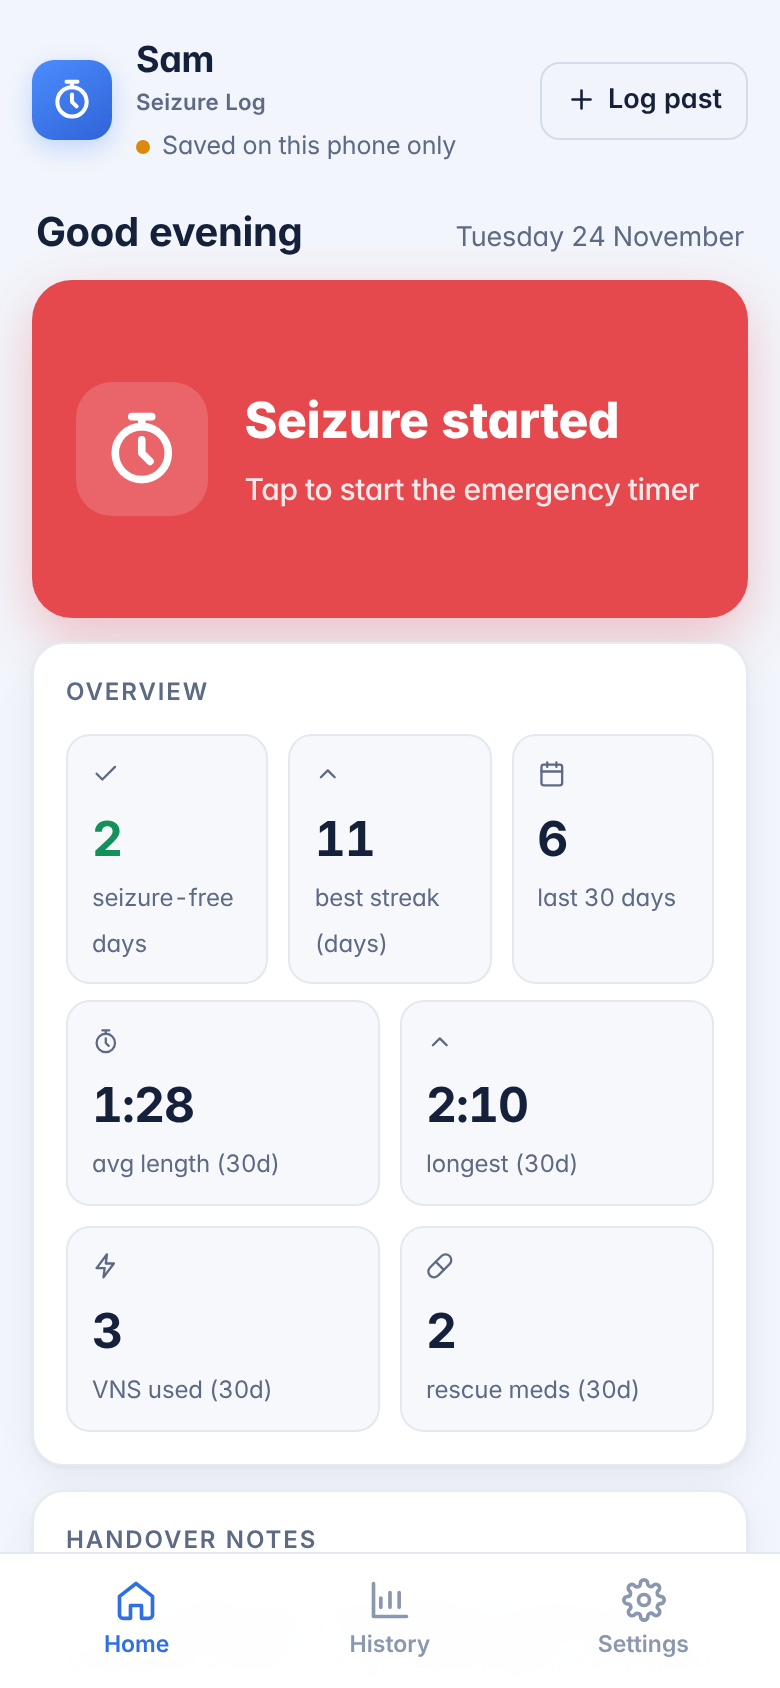
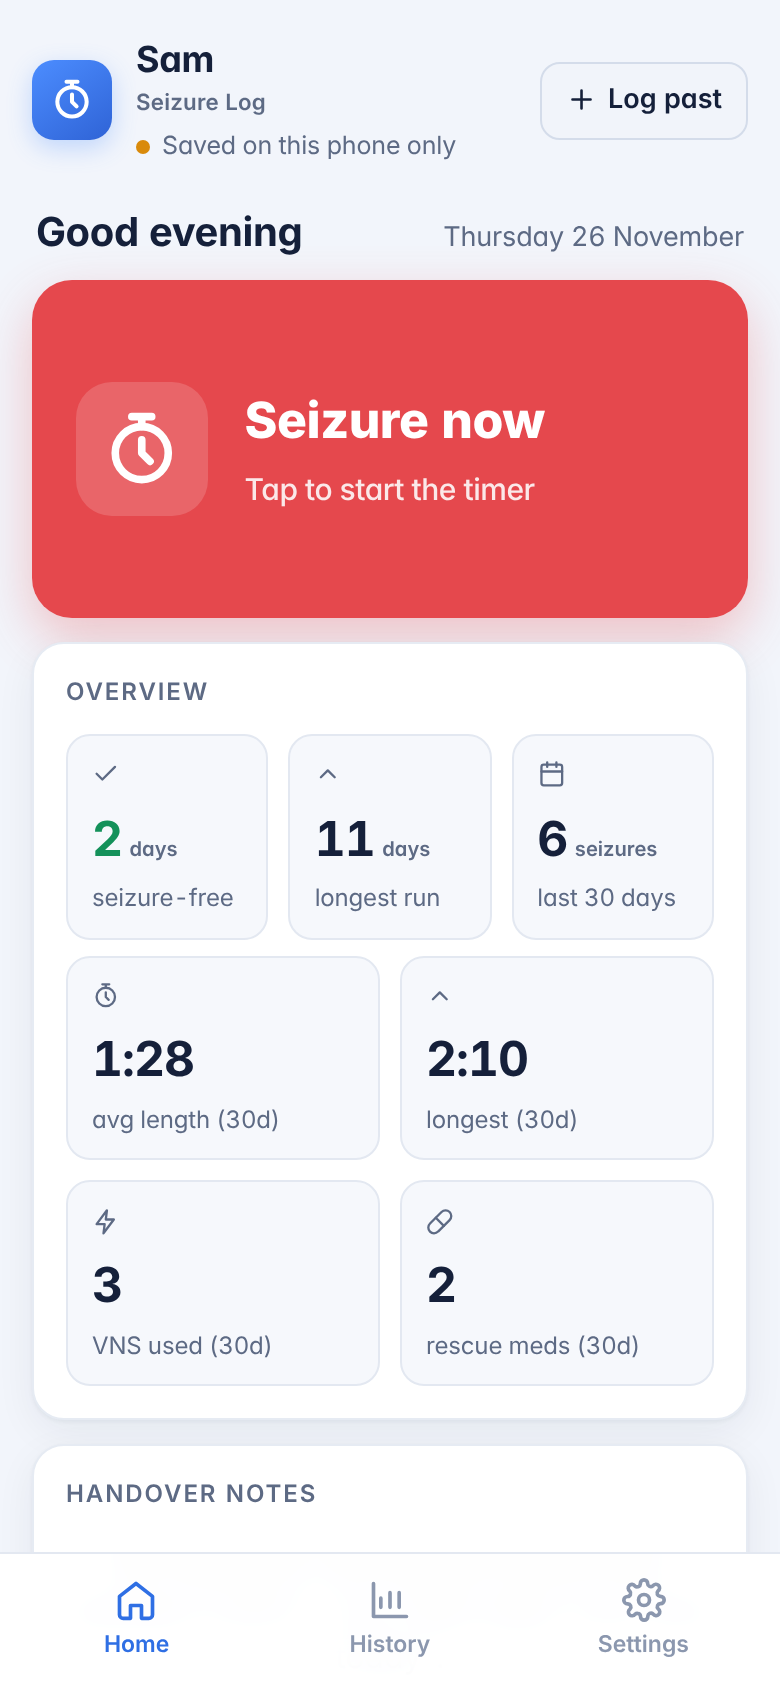
Overview tiles: units beside numbers, short labels; start button 'Seizure now – Tap to start the timer'
Claude-Session: https://claude.ai/code/session_01UzPKDsSjRLwPgmuY5C3WvR

diff --git a/index.html b/index.html
@@ -513,6 +513,7 @@ html[data-theme="light"] body:not(.emergency) .obcard{box-shadow:0 1px 2px rgba(
 .consent input{width:22px!important;height:22px;flex:none;margin-top:1px}
 .consent a{color:var(--accent);font-weight:600}
 .consent.shake{animation:shake .4s}@keyframes shake{25%{transform:translateX(-6px)}75%{transform:translateX(6px)}}
+.stat b .unit{font-size:.42em;font-weight:600;color:var(--muted);letter-spacing:0;margin-left:1px;white-space:nowrap}
 </style>
 </head>
 <body>
@@ -530,13 +531,13 @@ html[data-theme="light"] body:not(.emergency) .obcard{box-shadow:0 1px 2px rgba(
   <section id="view-home">
     <div id="roBanner" class="ro-banner hidden"></div>
     <div class="hello"><b id="helloTxt">Hello</b><span id="helloDate"></span></div>
-    <button class="big-start" id="startBtn"><span class="bs-ic"><span class="em">⏱</span></span><span>Seizure started<small>Tap to start the emergency timer</small></span></button>
+    <button class="big-start" id="startBtn"><span class="bs-ic"><span class="em">⏱</span></span><span>Seizure now<small>Tap to start the timer</small></span></button>
     <div id="backupNag"></div>
     <div class="card" style="--acc:#7fd8ff">
       <h2>Overview</h2>
       <div class="stats">
-        <div class="stat good"><span class="k-ic"><span class="em">✓</span></span><b id="sFree">–</b><span>seizure-free days</span></div>
-        <div class="stat"><span class="k-ic"><span class="em">⬆</span></span><b id="sBest">–</b><span>longest seizure-free run (12&nbsp;months)</span></div>
+        <div class="stat good"><span class="k-ic"><span class="em">✓</span></span><b id="sFree">–</b><span>seizure-free</span></div>
+        <div class="stat"><span class="k-ic"><span class="em">⬆</span></span><b id="sBest">–</b><span>longest run</span></div>
         <div class="stat"><span class="k-ic"><span class="em">📅</span></span><b id="s30">0</b><span>last 30 days</span></div>
       </div>
       <div class="stats two" style="margin-top:8px">
@@ -1040,8 +1041,9 @@ document.querySelectorAll(".tile[data-go]").forEach(t=>t.onclick=()=>{
 function render(){
   $("#title").innerHTML = settings.name ? `${esc(settings.name)}<span class="tsub">Seizure Log</span>` : "Seizure Tracker";
   const w7=within(7), w30=within(30), all=sorted();
-  $("#s30").textContent=w30.length;
-  const st=streaks(); $("#sFree").textContent = st.current==null ? "–" : st.current; $("#sBest").textContent = st.best==null ? "–" : st.best;
+  const withUnit=(n,one,many)=>`${n}<small class="unit"> ${n===1?one:many}</small>`;
+  $("#s30").innerHTML=withUnit(w30.length,"seizure","seizures");
+  const st=streaks(); $("#sFree").innerHTML = st.current==null ? "–" : withUnit(st.current,"day","days"); $("#sBest").innerHTML = st.best==null ? "–" : withUnit(st.best,"day","days");
   const durs=w30.map(s=>s.durationSec||0).filter(Boolean);
   $("#sAvg").textContent = durs.length ? fmtDur(durs.reduce((a,b)=>a+b,0)/durs.length) : "–";
   $("#sMax").textContent = durs.length ? fmtDur(Math.max(...durs)) : "–";
@@ -2731,7 +2733,7 @@ function openAppt(a, note){
 $("#apptAdd").onclick = () => openAppt(null);
 
 // ---------- feedback ----------
-const APP_VERSION="2026.11.26-43";
+const APP_VERSION="2026.11.26-45";
 const FEEDBACK_TO="jamie1056@gmail.com";
 function feedbackHref(){
   const ua=navigator.userAgent, am=ua.match(/(Android [\d.]+);\s*([^;)]+)\)/), phone=am?`${am[1]}${am[2]&&am[2]!=="K"?" – "+am[2]:""}`:(/iPhone|iPad/.test(ua)?(ua.match(/OS [\d_]+/)||["iPhone"])[0].replace(/_/g,".")+" (iPhone)":"Computer");

diff --git a/guide/index.html b/guide/index.html
@@ -154,7 +154,7 @@ footer img{width:34px;height:34px;border-radius:9px}
   <div class="split rev">
     <div><img class="shot" src="timer.png" alt="Timer running"><div class="cap">The emergency timer</div></div>
     <div>
-      <p>Tap the big red <span class="btn red">Seizure started</span> button on the Home screen – or <span class="btn red">Start timer</span> on any other screen.</p>
+      <p>Tap the big red <span class="btn red">Seizure now</span> button on the Home screen – or <span class="btn red">Start timer</span> on any other screen.</p>
       <ol class="steps">
         <li><b>Tap the screen once</b> to switch on alarm sounds (phones need a tap before they'll play sound).</li>
         <li>Follow the <b>care plan prompts</b> as they appear and tap <span class="btn blue">Done</span> or <span class="btn">Not needed</span>.</li>
@@ -213,7 +213,7 @@ footer img{width:34px;height:34px;border-radius:9px}
   <h2><span class="n">7</span>History and patterns</h2>
   <div class="split">
     <div>
-      <p>The <b>Home</b> screen shows seizure-free days, the longest seizure-free run and the last 30 days at a glance.</p>
+      <p>The <b>Home</b> screen shows how many days it has been since the last seizure, the longest seizure-free run in the past year, and the number of seizures in the last 30 days at a glance.</p>
       <p><b>History</b> shows:</p>
       <ul class="ticks">
         <li>Seizures per week and per month</li>
@@ -288,7 +288,7 @@ footer img{width:34px;height:34px;border-radius:9px}
     <li>You'll see the child's log straight away – there's nothing else to set up.</li>
   </ol>
   <h3>Looking after more than one child?</h3>
-  <p>Carers can belong to several children's teams. When you belong to more than one, a <b>child switcher</b> appears at the top, and <b>Seizure started</b> asks which child first – so a seizure is never logged against the wrong child.</p>
+  <p>Carers can belong to several children's teams. When you belong to more than one, a <b>child switcher</b> appears at the top, and <b>Seizure now</b> asks which child first – so a seizure is never logged against the wrong child.</p>
   <p>Lead carers can change someone's role or remove them at any time from <b>Settings → People</b>, and can see a history of changes.</p>
   <p>To delete a child completely – details, care plan and every seizure record, for everyone on the team – a lead carer goes to <b>Settings → People → Delete [name] and all their records</b> and types the child's name to confirm. This can't be undone, so download a backup or PDF first if you need one.</p>
 </section>

diff --git a/sw.js b/sw.js
@@ -1,6 +1,6 @@
 // Caches the app so it opens instantly and works with no signal.
 // Only the app's own files and the Firebase library are cached – never database traffic.
-const CACHE = "seizure-tracker-v44";
+const CACHE = "seizure-tracker-v45";
 const FILES = ["./", "./index.html", "./manifest.webmanifest", "./icon-v2-192.png", "./icon-v2-512.png"];
 self.addEventListener("install", e => { e.waitUntil(caches.open(CACHE).then(c => c.addAll(FILES))); self.skipWaiting(); });
 self.addEventListener("activate", e => { e.waitUntil(caches.keys().then(ks => Promise.all(ks.filter(k => k !== CACHE).map(k => caches.delete(k))))); self.clients.claim(); });
